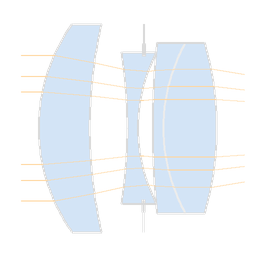
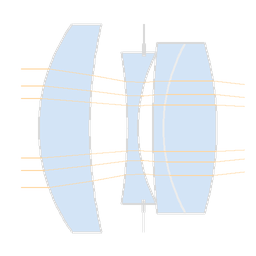
Add Zuiko 18mm f/3.5 and fix diagram rendering for extreme lens designs
New lens from US Patent 4,029,397 (Olympus, 1977). Diagram renderer
now clamps surface arcs where they would cross adjacent surfaces,
uses adaptive vertical padding for tall/narrow lenses, and traces
rays at stop aperture height for retrofocus designs.

diff --git a/scripts/build_diagrams.py b/scripts/build_diagrams.py
@@ -78,24 +78,32 @@ def _arc_points(vertex_x, radius, semi_ap, to_px, steps=64):
     return points
 
 
-def _element_polygon(surfaces, positions, front_i, back_i, to_px):
+def _effective_semi_aperture(front_vx, front_r, front_ap, back_vx, back_r, back_ap):
+    """Max semi-aperture where the front arc doesn't extend past the back arc."""
+    max_ap = min(front_ap, back_ap)
+    if _arc_x(front_vx, front_r, max_ap) <= _arc_x(back_vx, back_r, max_ap):
+        return front_ap, back_ap
+    # Binary search for the crossing height
+    lo, hi = 0.0, max_ap
+    for _ in range(50):
+        mid = (lo + hi) * 0.5
+        if _arc_x(front_vx, front_r, mid) <= _arc_x(back_vx, back_r, mid):
+            lo = mid
+        else:
+            hi = mid
+    return lo, lo
+
+
+def _element_polygon(surfaces, positions, front_i, back_i, effective_aps, to_px):
     """Build a polygon outline for a glass element between two surfaces."""
-    front_s = surfaces[front_i]
-    back_s = surfaces[back_i]
     front_vx = positions[front_i]
     back_vx = positions[back_i]
-    front_r = front_s["radius"]
-    back_r = back_s["radius"]
-    front_ap = front_s["aperture"] * 0.5
-    back_ap = back_s["aperture"] * 0.5
+    front_r = surfaces[front_i]["radius"]
+    back_r = surfaces[back_i]["radius"]
 
-    # Front arc from -front_ap to +front_ap
-    front_pts = _arc_points(front_vx, front_r, front_ap, to_px)
-    # Back arc from -back_ap to +back_ap
-    back_pts = _arc_points(back_vx, back_r, back_ap, to_px)
+    front_pts = _arc_points(front_vx, front_r, effective_aps[front_i], to_px)
+    back_pts = _arc_points(back_vx, back_r, effective_aps[back_i], to_px)
 
-    # Polygon: front arc top-to-bottom, closing edge to back bottom,
-    # back arc bottom-to-top, closing edge to front top
     polygon = list(front_pts)
     polygon.append(back_pts[-1])
     polygon.extend(reversed(back_pts))
@@ -222,14 +230,26 @@ def _render_lens(surfaces):
     img = Image.new("RGBA", (size, size), _BG_COLOR)
     draw = ImageDraw.Draw(img)
 
-    positions = _compute_vertex_positions(surfaces)
     elements = _find_elements(surfaces)
-
-    total_length = positions[-1]
     max_aperture = max(s["aperture"] for s in surfaces) * 0.5
 
+    # Adaptive padding: reduce vertical padding for lenses where height
+    # dominates width, so the front elements can extend closer to the
+    # icon edges and the rear elements get more horizontal room.
+    positions = _compute_vertex_positions(surfaces)
+    total_length = positions[-1]
+    aspect_ratio = (2 * max_aperture) / total_length if total_length > 0 else 1.0
+    if aspect_ratio > 1.2:
+        # Interpolate vertical padding from full to minimal as ratio grows
+        t = min((aspect_ratio - 1.2) / 0.8, 1.0)
+        min_padding = 4 * _SUPERSAMPLE
+        v_padding = _PADDING + t * (min_padding - _PADDING)
+    else:
+        v_padding = _PADDING
+
     draw_w = size - 2 * _PADDING
-    draw_h = size - 2 * _PADDING
+    draw_h = size - 2 * v_padding
+
     scale_x = draw_w / total_length if total_length > 0 else 1.0
     scale_y = draw_h / (2 * max_aperture) if max_aperture > 0 else 1.0
     scale = min(scale_x, scale_y)
@@ -249,17 +269,38 @@ def _render_lens(surfaces):
         dash=8 * _SUPERSAMPLE, gap=6 * _SUPERSAMPLE,
     )
 
+    # Compute effective drawing aperture for every surface, clamped where
+    # adjacent arcs would cross — both within elements and across air gaps.
+    effective_aps = []
+    for i, s in enumerate(surfaces):
+        eff = s["aperture"] * 0.5
+        if i > 0 and not _is_stop(surfaces[i - 1]):
+            s_prev = surfaces[i - 1]
+            _, back_ap = _effective_semi_aperture(
+                positions[i - 1], s_prev["radius"], s_prev["aperture"] * 0.5,
+                positions[i], s["radius"], eff,
+            )
+            eff = min(eff, back_ap)
+        if i < len(surfaces) - 1 and not _is_stop(surfaces[i + 1]):
+            s_next = surfaces[i + 1]
+            front_ap, _ = _effective_semi_aperture(
+                positions[i], s["radius"], eff,
+                positions[i + 1], s_next["radius"], s_next["aperture"] * 0.5,
+            )
+            eff = min(eff, front_ap)
+        effective_aps.append(eff)
+
     # Fill glass elements
     for front_i, back_i in elements:
         for j in range(front_i, back_i):
-            poly = _element_polygon(surfaces, positions, j, j + 1, to_px)
+            poly = _element_polygon(surfaces, positions, j, j + 1, effective_aps, to_px)
             draw.polygon(poly, fill=_GLASS_FILL)
 
     # Draw surface arcs
     for i, s in enumerate(surfaces):
         if _is_stop(s):
             continue
-        semi_ap = s["aperture"] * 0.5
+        semi_ap = effective_aps[i]
         is_cemented = False
         for front_i, back_i in elements:
             if front_i < i < back_i:
@@ -275,17 +316,15 @@ def _render_lens(surfaces):
     # Draw element closing edges
     for front_i, back_i in elements:
         for j in range(front_i, back_i):
-            s_j = surfaces[j]
-            s_j1 = surfaces[j + 1]
-            ap_j = s_j["aperture"] * 0.5
-            ap_j1 = s_j1["aperture"] * 0.5
+            ap_j = effective_aps[j]
+            ap_j1 = effective_aps[j + 1]
             for sign in (1.0, -1.0):
                 p0 = to_px(
-                    _arc_x(positions[j], s_j["radius"], sign * ap_j),
+                    _arc_x(positions[j], surfaces[j]["radius"], sign * ap_j),
                     sign * ap_j,
                 )
                 p1 = to_px(
-                    _arc_x(positions[j + 1], s_j1["radius"], sign * ap_j1),
+                    _arc_x(positions[j + 1], surfaces[j + 1]["radius"], sign * ap_j1),
                     sign * ap_j1,
                 )
                 draw.line([p0, p1], fill=_SURFACE_LINE, width=2 * _SUPERSAMPLE)
@@ -312,12 +351,18 @@ def _render_lens(surfaces):
                     width=4 * _SUPERSAMPLE,
                 )
 
-    # Trace example rays
-    first_semi_ap = surfaces[0]["aperture"] * 0.5
+    # Trace example rays — use the stop semi-aperture as the reference
+    # height, since it defines the actual ray bundle that passes through
+    # the system. For retrofocus designs the front element is much larger
+    # than the useful ray bundle.
+    stop_aps = [s["aperture"] * 0.5 for s in surfaces if _is_stop(s)]
+    ray_semi_ap = stop_aps[0] if stop_aps else (
+        min(s["aperture"] * 0.5 for s in surfaces)
+    )
     clip_left = _PADDING * 0.5
     clip_right = size - _PADDING * 0.5
     for frac in (0.7, 0.5, 0.35, -0.35, -0.5, -0.7):
-        ray_pts = _trace_ray(surfaces, positions, frac * first_semi_ap)
+        ray_pts = _trace_ray(surfaces, positions, frac * ray_semi_ap)
         if ray_pts and len(ray_pts) >= 2:
             px_pts = [to_px(x, y) for x, y in ray_pts]
             # Clip to drawing area
